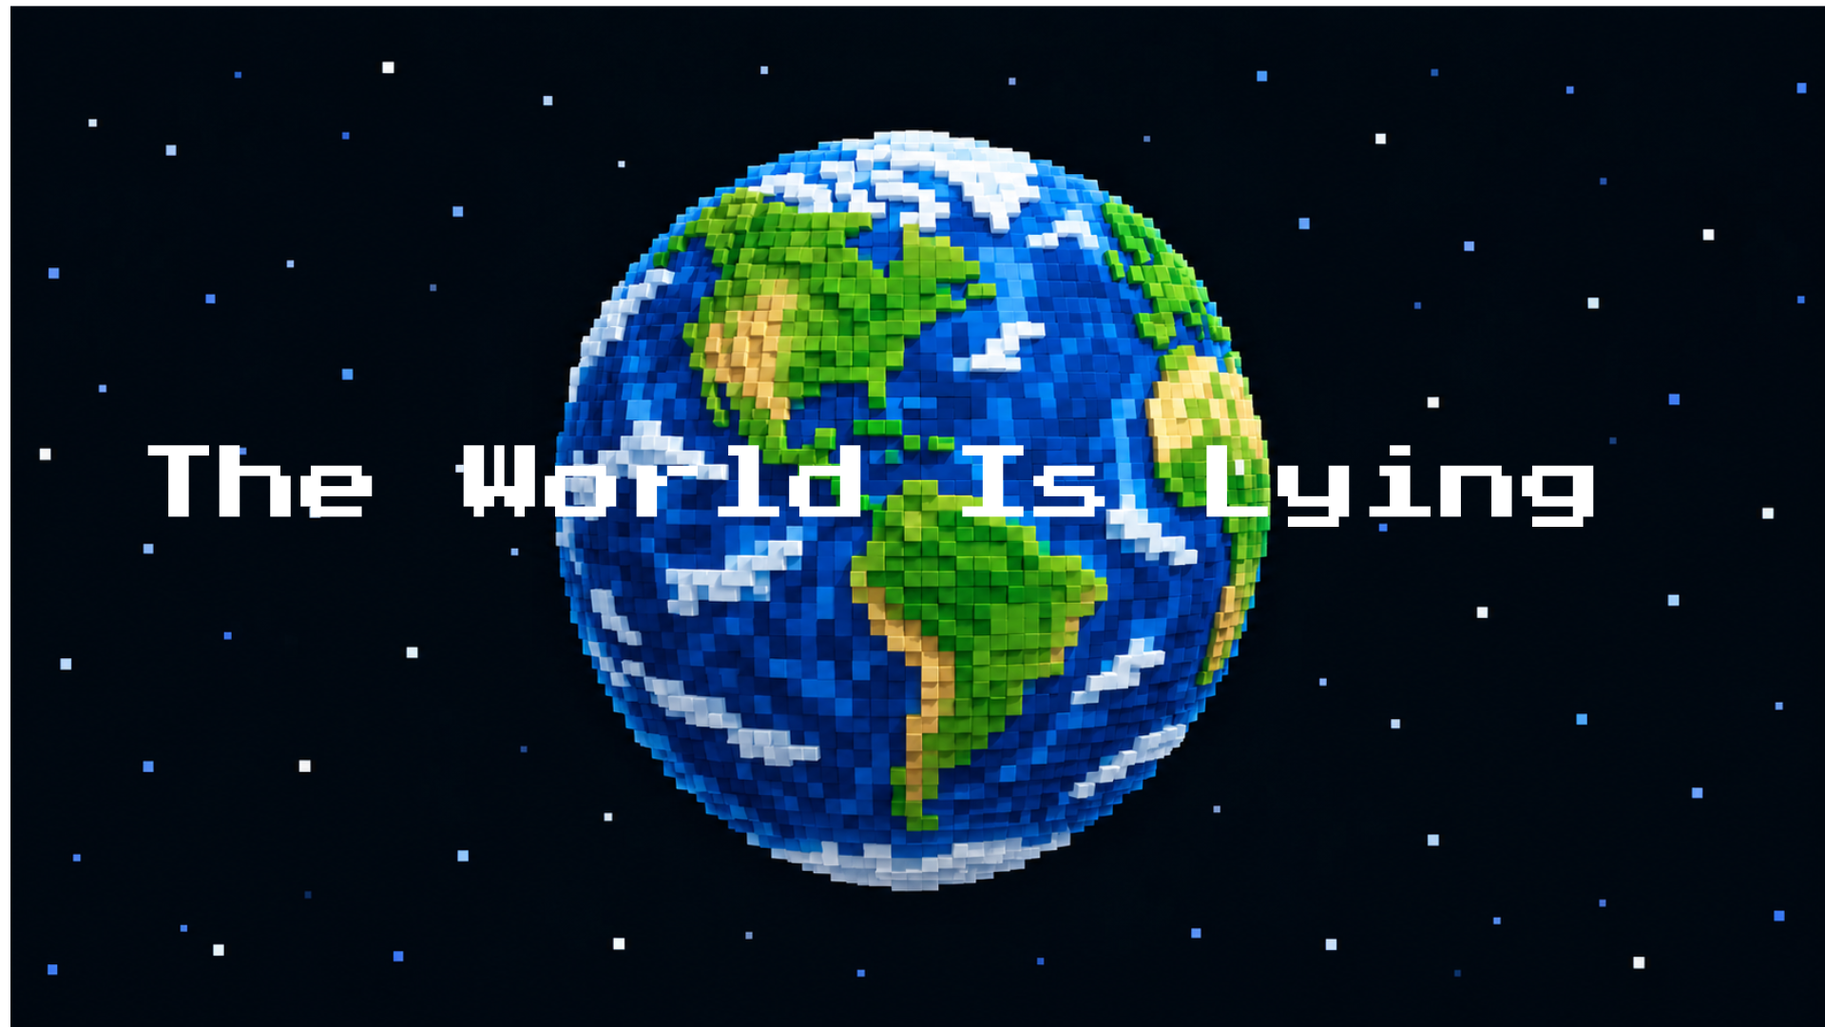
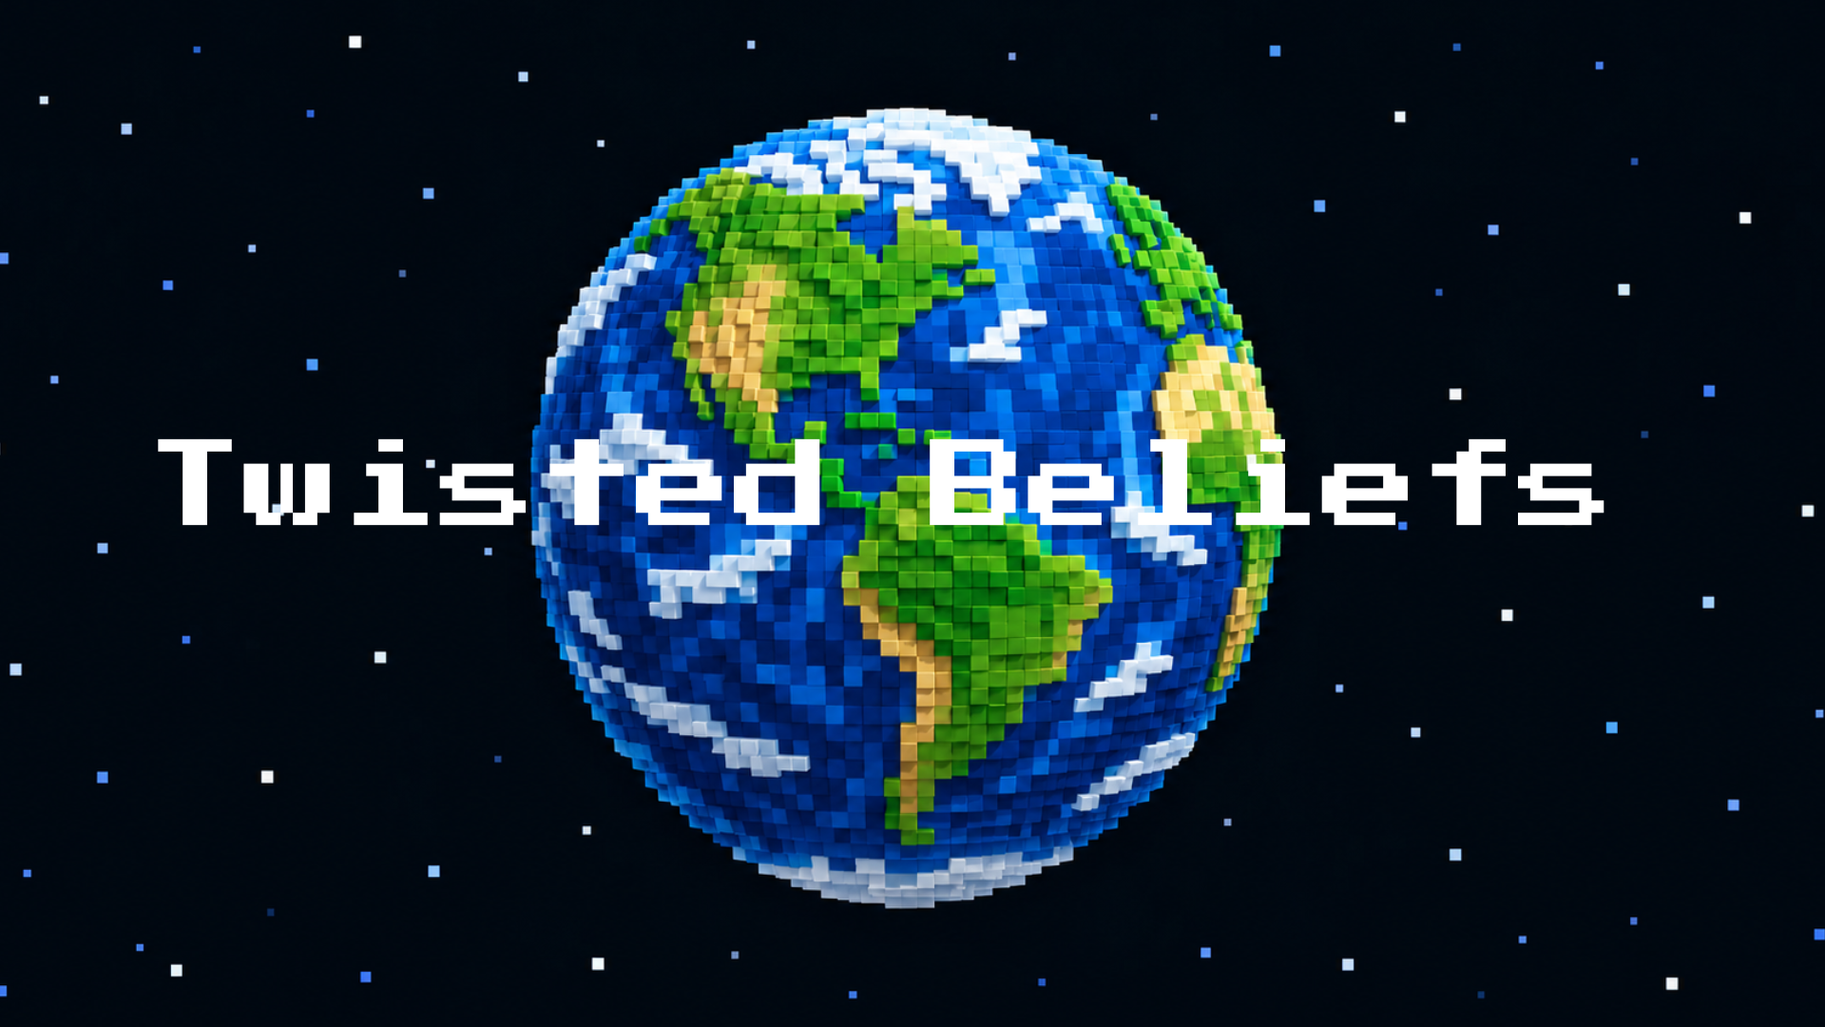
Update Twisted Beliefs (by Balthi, via the upload page)

diff --git a/games/the-world-is-lying/index.html b/games/the-world-is-lying/index.html
@@ -1,7 +1,7 @@
 <!DOCTYPE html>
 <html lang="en"><head><meta charset="utf-8">
 <meta name="viewport" content="width=device-width, initial-scale=1, viewport-fit=cover">
-<title>The World Is Lying</title>
+<title>Twisted Beliefs</title>
 <link href="https://fonts.googleapis.com/css2?family=Pixelify+Sans:wght@400;600&display=swap" rel="stylesheet">
 <style>
 :root{--bg:#1f2a2e;--ink:#f1e9d2;--acc:#e8a86b;--dim:#9fb0a8;box-sizing:border-box;padding-top:env(safe-area-inset-top,0px);padding-bottom:env(safe-area-inset-bottom,0px)}
@@ -33,7 +33,7 @@ button:hover,button:focus-visible{background:var(--acc);color:#1f2a2e;outline:no
 <button id="talk"></button>
 <div class="box" id="dlg"><b id="who"></b><div id="qrow"><label for="q">Question box</label><input id="q" placeholder="Ask anything, or tell them what they are..." maxlength="140" autocomplete="off"><button id="ask">Ask</button></div><p id="say"></p><div id="opts"></div></div>
 <div class="box" id="end"></div>
-<div id="intro"><h1>The World Is Lying</h1>
+<div id="intro"><h1>Twisted Beliefs</h1>
 <p>You wake in a city square. A woman is already waving at you, like she has done it a thousand times.</p>
 <div><button id="go">New game</button><button id="cont" style="display:none">Continue</button><button id="how">How to play</button></div></div>
 <div class="box" id="ov" style="display:none"></div><div id="hud"><button id="think">I believe...</button><span id="mem"></span><span id="mon">$0</span><button id="guide">Guide to house</button></div><div id="movie"></div><div class="box" id="thk" style="display:none;top:60px"><label for="tq" style="color:var(--acc)">Your belief</label><div style="display:flex;gap:6px;margin-top:6px"><input id="tq" placeholder="I believe I am a kid" maxlength="140" autocomplete="off" style="flex:1;min-width:0;font:inherit;font-size:16px;padding:6px;background:#141b1d;color:var(--ink);border:2px solid var(--dim)"><button id="tgo">Believe</button></div></div>
@@ -196,17 +196,74 @@ snake:[0,1,2,3,4,5,6].map(i=>bx(Math.sin(i)*.4,.15,1-i*.4,.3,.3,.45,i%2?'#3a8a4a
 frog:[bx(0,.4,0,.9,.6,1,'#4aa04a'),bx(.25,.8,.4,.25,.25,.25,'#4aa04a'),bx(-.25,.8,.4,.25,.25,.25,'#4aa04a'),bx(.25,.85,.5,.1,.1,.1,'#111'),bx(-.25,.85,.5,.1,.1,.1,'#111'),...L4('#3a8a3a',.5,.4,.2,.25)],
 spider:[bx(0,.5,0,.8,.6,1,'#222'),bx(0,.55,.7,.5,.5,.5,'#222'),...[-1,1].flatMap(a=>[-.5,-.15,.2,.55].map(z=>bx(a*.9,.4,z,1.2,.1,.1,'#222')))]};
 const AL={bunny:'rabbit',kitten:'cat',puppy:'dog',pony:'horse',stallion:'horse',donkey:'horse',bull:'cow',piglet:'pig',lamb:'sheep',goat:'sheep',rat:'mouse',gerbil:'hamster',squirrel:'hamster',ape:'monkey',gorilla:'monkey',chimp:'monkey',leopard:'tiger',cheetah:'tiger',moose:'deer',reindeer:'deer',coyote:'wolf',pigeon:'bird',sparrow:'bird',crow:'bird',raven:'bird',goose:'duck',hen:'chicken',rooster:'chicken',hawk:'eagle',falcon:'eagle',seagull:'bird',dolphin:'shark',goldfish:'fish',salmon:'fish',crate:'cube',box:'cube',block:'cube',mug:'cup',glass:'cup',stone:'rock',boulder:'rock',couch:'sofa',armchair:'chair',stool:'chair',bush:'tree',plant:'flower',rose:'flower',sedan:'car',truck:'car',bus:'car',taxi:'car',cottage:'house',hut:'house',cabin:'house',jar:'vase',pot:'vase',urn:'vase',orb:'ball',sphere:'ball',globe:'ball',desk:'table',candle:'lamp',lantern:'lamp',spirit:'ghost',phantom:'ghost',android:'robot',cyborg:'robot',snail:'frog',toad:'frog',lizard:'frog'};
-function PARTS(k){if(QD[k]){const P=quad(...QD[k]);if(k==='dragon')for(const a of[-1,1])P.push(bx(a*1.6,2.2,-.2,1.8,.1,1.4,'#c2503f'));return P}if(BD[k])return bird(...BD[k]);if(FD[k])return fish(...FD[k]);return OB[k]||null}
+QD.dinosaur=['#5a8a3a',2.6,1.3,1,[.1,.1],2,{neck:.5,stripe:'#3a6a2a'}];QD.unicorn=['#f1e9f8',2,1,1.3,[.2,.4],1.2,{neck:.6,tailc:'#e87aa8'}];
+Object.assign(OB,{
+boat:[bx(0,.4,0,1.6,.6,3.6,'#8a5a3a'),bx(0,.9,.4,1.3,.4,1.8,'#a0764a'),bx(0,2,0,.12,2.4,.12,'#5a3e2a'),bx(.55,2.1,0,1,1.8,.06,'#f1f1f1')],
+plane:[bx(0,1,0,.9,.9,4,'#d8d8dc'),bx(0,1,.2,5,.12,1.2,'#b8c0c8'),bx(0,1.8,-1.8,.12,1,.8,'#b8c0c8'),bx(0,1,-1.9,1.8,.1,.7,'#b8c0c8'),bx(0,1.1,2,.7,.7,.4,'#9fc8e0')],
+rocket:[bx(0,1.6,0,1,3.2,1,'#f1f1f1'),bx(0,3.5,0,.7,.8,.7,'#c2503f'),bx(0,1.8,.51,.4,.4,.05,'#9fc8e0'),bx(-.7,.5,0,.4,1,.2,'#c2503f'),bx(.7,.5,0,.4,1,.2,'#c2503f'),bx(0,.15,0,.6,.3,.6,'#f2a03a')],
+train:[bx(0,.8,0,1.4,1.2,4,'#2f5a9a'),bx(0,1.6,1.2,1.4,.8,1.4,'#2f5a9a'),bx(0,2.1,1.6,.5,.8,.5,'#333'),...[[-.8,-1.2],[.8,-1.2],[-.8,1],[.8,1]].map(([x,z])=>bx(x,.3,z,.2,.6,.6,'#111'))],
+bike:[bx(0,.35,.9,.15,.7,.7,'#111'),bx(0,.35,-.9,.15,.7,.7,'#111'),bx(0,.9,0,.12,.12,2,'#c2503f'),bx(0,1.1,.7,.8,.1,.1,'#333'),bx(0,1.1,-.6,.3,.1,.5,'#333')],
+tank:[bx(0,.5,0,1.8,.7,3,'#5a6a3a'),bx(0,1.1,0,1.2,.5,1.4,'#5a6a3a'),bx(0,1.15,1.5,.2,.2,1.8,'#333')],
+castle:[bx(0,1.2,0,3,2.4,2.4,'#b8b2a4'),...[[-1.8,-1],[1.8,-1],[-1.8,1],[1.8,1]].flatMap(([x,z])=>[bx(x,2,z,1,4,1,'#a8a294'),bx(x,4.3,z,1.3,.6,1.3,'#8a3b2e')]),bx(0,.8,1.25,.9,1.6,.06,'#4a3020')],
+skyscraper:[bx(0,3,0,2,6,2,'#8a9aa8'),...[0,1,2,3,4].map(i=>bx(0,.8+i*1.1,1.01,1.5,.5,.04,'#cfe8ff')),bx(0,6.3,0,.1,.8,.1,'#333')],
+pyramid:[bx(0,.4,0,4,.8,4,'#d8b86a'),bx(0,1.2,0,3,.8,3,'#d8b86a'),bx(0,2,0,2,.8,2,'#d8b86a'),bx(0,2.8,0,1,.8,1,'#d8b86a'),bx(0,3.4,0,.4,.4,.4,'#f2d27a')],
+tent:[bx(0,.5,0,2.4,1,2,'#c2503f'),bx(0,1.3,0,1.8,.6,1.6,'#c2503f'),bx(0,1.8,0,.8,.5,1.2,'#c2503f'),bx(0,.5,1.01,.7,1,.05,'#333')],
+windmill:[bx(0,1.6,0,1.6,3.2,1.6,'#e0c9a0'),bx(0,3.5,0,1.9,.6,1.9,'#8a3b2e'),bx(0,3,1,3.4,.2,.1,'#f1f1f1'),bx(0,3,1,.2,3.4,.1,'#f1f1f1')],
+cactus:[bx(0,1,0,.7,2,.7,'#3a8a4a'),bx(.7,1.3,0,.7,.25,.3,'#3a8a4a'),bx(.9,1.65,0,.25,.7,.3,'#3a8a4a'),bx(-.7,.9,0,.7,.25,.3,'#3a8a4a'),bx(-.9,1.25,0,.25,.7,.3,'#3a8a4a')],
+palm:[bx(0,1.5,0,.4,3,.4,'#8a6a3a'),bx(0,3.1,0,2.4,.2,.5,'#3a8a4a'),bx(0,3.1,0,.5,.2,2.4,'#3a8a4a'),bx(0,3,.2,.35,.35,.35,'#6a4a2a')],
+pine:[bx(0,.6,0,.4,1.2,.4,'#5b4636'),bx(0,1.5,0,2,.8,2,'#2f6a4a'),bx(0,2.2,0,1.5,.8,1.5,'#2f6a4a'),bx(0,2.9,0,1,.8,1,'#2f6a4a'),bx(0,3.5,0,.5,.6,.5,'#2f6a4a')],
+bed:[bx(0,.4,0,1.8,.5,3,'#8a5a3a'),bx(0,.8,0,1.7,.3,2.6,'#f1e9d2'),bx(0,1.2,-1.4,1.8,1,.2,'#8a5a3a'),bx(0,.98,-1,1.2,.2,.6,'#9fc8e0')],
+shelf:[bx(0,1.5,0,2.4,3,.6,'#7a5a3a'),...[0,1,2].map(i=>bx(0,.9+i*.9,.1,2.2,.12,.5,'#5a3e2a')),...[0,1,2].map(i=>bx(-.5+i*.5,1.1+i*.9,.1,.3,.5,.4,['#c2503f','#2f7a9a','#d9a441'][i]))],
+door:[bx(0,1.5,0,1.6,3,.2,'#6a4a2a'),bx(.55,1.5,.15,.15,.15,.1,'#f2d27a'),bx(0,1.5,.11,1.2,2.5,.02,'#5a3e2a')],
+clock:[bx(0,1.5,0,1.6,3.2,.8,'#7a5a3a'),bx(0,2.5,.41,1,1,.05,'#f1e9d2'),bx(0,2.6,.45,.08,.4,.04,'#111'),bx(.1,2.5,.45,.3,.08,.04,'#111'),bx(0,.7,.41,.8,1,.04,'#5a3e2a')],
+apple:[bx(0,.7,0,1.2,1.1,1.2,'#c2302f'),bx(0,1.4,0,.12,.4,.12,'#5b4636'),bx(.3,1.4,0,.5,.1,.3,'#3a8a3a')],
+banana:[bx(0,.3,0,.6,.5,1.4,'#f2d23a'),bx(0,.65,.9,.5,.5,.8,'#f2d23a'),bx(0,1,1.3,.2,.3,.2,'#5b4636')],
+cake:[bx(0,.5,0,2,1,2,'#f0d2b0'),bx(0,1.05,0,2.1,.2,2.1,'#f7a8c8'),bx(0,1.5,0,.12,.7,.12,'#f1f1f1'),bx(0,1.95,0,.2,.2,.2,'#f2a03a')],
+pizza:[bx(0,.1,0,2.4,.2,2.4,'#e0a050'),bx(0,.25,0,2.1,.1,2.1,'#c2503f'),bx(.4,.33,.3,.4,.1,.4,'#a82020'),bx(-.5,.33,-.3,.4,.1,.4,'#a82020'),bx(.3,.33,-.6,.4,.1,.4,'#f2d23a')],
+burger:[bx(0,.3,0,1.6,.6,1.6,'#d9a050'),bx(0,.7,0,1.7,.2,1.7,'#3a8a3a'),bx(0,.95,0,1.6,.3,1.6,'#6a3a20'),bx(0,1.35,0,1.6,.6,1.6,'#d9a050')],
+donut:[bx(0,.3,0,1.6,.6,1.6,'#e8a0c0'),bx(0,.35,0,.5,.7,.5,'#7ad8e8')],
+carrot:[bx(0,.8,0,.5,1.6,.5,'#e0762a'),bx(0,.4,0,.3,.8,.3,'#e0762a'),bx(0,1.8,0,.5,.4,.5,'#3a8a3a')],
+pumpkin:[bx(0,.7,0,1.6,1.3,1.6,'#e0762a'),bx(0,1.45,0,.2,.4,.2,'#3a6a3a'),bx(-.3,.9,.82,.3,.3,.05,'#111'),bx(.3,.9,.82,.3,.3,.05,'#111'),bx(0,.5,.82,.7,.2,.05,'#111')],
+egg:[bx(0,.7,0,1,1.4,1,'#f1e9d2'),bx(0,1.3,0,.8,.5,.8,'#f1e9d2')],
+sword:[bx(0,1.5,0,.25,2.6,.1,'#c8d0d8'),bx(0,.15,0,.9,.2,.2,'#d9a441'),bx(0,-.2,0,.2,.6,.2,'#5a3e2a')],
+axe:[bx(0,1,0,.2,2,.2,'#7a5a3a'),bx(.4,1.8,0,.8,.7,.15,'#aab4ba')],hammer:[bx(0,1,0,.2,2,.2,'#7a5a3a'),bx(0,2.1,0,1.2,.6,.5,'#8a8a92')],
+key:[bx(0,1.5,0,.2,2,.12,'#e0b030'),bx(0,2.7,0,.8,.6,.12,'#e0b030'),bx(.2,.7,0,.4,.2,.12,'#e0b030')],
+book:[bx(0,.2,0,1.4,.4,1.8,'#2f5a9a'),bx(0,.2,.05,1.3,.3,1.7,'#f1e9d2'),bx(-.65,.2,0,.12,.42,1.8,'#1f3a6a')],
+tv:[bx(0,1.1,0,2.2,1.5,.3,'#222'),bx(0,1.1,.16,1.9,1.2,.05,'#3a5a8a'),bx(0,.3,0,1,.2,.5,'#222')],
+computer:[bx(0,.9,0,1.8,1.2,.2,'#222'),bx(0,.9,.11,1.6,1,.05,'#3a8ac4'),bx(0,.5,.6,1.8,.1,1,'#aab4ba')],
+guitar:[bx(0,.9,0,1,1.2,.25,'#c9a27a'),bx(0,.9,.13,.3,.3,.05,'#222'),bx(0,2.1,0,.18,1.8,.15,'#5a3e2a'),bx(0,3.1,0,.35,.4,.12,'#5a3e2a')],
+umbrella:[bx(0,2,0,2.2,.4,2.2,'#c2503f'),bx(0,2.3,0,1.3,.3,1.3,'#c2503f'),bx(0,1,0,.1,2,.1,'#333')],
+balloon:[bx(0,2.6,0,1.3,1.5,1.3,'#e0455a'),bx(0,1.7,0,.06,1.7,.06,'#f1f1f1')],
+crab:[bx(0,.4,0,1.2,.5,.9,'#d9442f'),bx(-.8,.7,.5,.4,.4,.3,'#d9442f'),bx(.8,.7,.5,.4,.4,.3,'#d9442f'),bx(-.3,.8,.4,.12,.3,.12,'#111'),bx(.3,.8,.4,.12,.3,.12,'#111'),...[-1,1].flatMap(a=>[-.3,0,.3].map(z=>bx(a*.75,.15,z,.5,.1,.1,'#b8301f')))],
+bee:[bx(0,.8,0,.6,.5,1,'#f2c23a'),bx(0,.8,.1,.62,.52,.2,'#222'),bx(0,.8,-.3,.62,.52,.2,'#222'),bx(0,.85,.6,.4,.4,.4,'#f2c23a'),bx(-.5,1.2,0,.6,.05,.4,'#cfe8ff'),bx(.5,1.2,0,.6,.05,.4,'#cfe8ff')],
+butterfly:[bx(0,1,0,.15,.15,.7,'#222'),bx(-.7,1.1,0,1.2,.05,.9,'#e06cb0'),bx(.7,1.1,0,1.2,.05,.9,'#6c8ae0')],
+bat:[bx(0,1,0,.5,.5,.6,'#2a2a30'),bx(-.8,1.05,0,1.1,.05,.6,'#2a2a30'),bx(.8,1.05,0,1.1,.05,.6,'#2a2a30'),bx(-.15,1.35,0,.12,.25,.1,'#2a2a30'),bx(.15,1.35,0,.12,.25,.1,'#2a2a30')],
+turtle:[bx(0,.5,0,1.4,.6,1.8,'#5a8a3a'),bx(0,.4,1.1,.5,.4,.5,'#7aaa4a'),...L4('#7aaa4a',.6,.7,.25,.3)],
+octopus:[bx(0,1.6,0,1.4,1.4,1.4,'#c24a8a'),bx(-.3,1.7,.71,.2,.2,.05,'#fff'),bx(.3,1.7,.71,.2,.2,.05,'#fff'),...[0,1,2,3,4,5,6,7].map(i=>bx(Math.cos(i*.785)*.7,.5,Math.sin(i*.785)*.7,.2,1,.2,'#c24a8a'))],
+jellyfish:[bx(0,1.8,0,1.6,.9,1.6,'#e0a0f0'),...[-1,0,1].flatMap(a=>[-1,1].map(b=>bx(a*.5,.8,b*.5,.1,1.4,.1,'#d080e0')))],
+snowman:[bx(0,.6,0,1.4,1.2,1.4,'#f4f6fa'),bx(0,1.6,0,1,.9,1,'#f4f6fa'),bx(0,2.4,0,.7,.7,.7,'#f4f6fa'),bx(0,2.4,.4,.15,.15,.4,'#e0762a'),bx(-.15,2.55,.36,.08,.08,.05,'#111'),bx(.15,2.55,.36,.08,.08,.05,'#111'),bx(0,2.85,0,.8,.3,.8,'#222')],
+sun:[bx(0,2,0,2,2,2,'#f2c23a'),bx(0,2,0,2.6,.6,.6,'#f2a03a'),bx(0,2,0,.6,2.6,.6,'#f2a03a')],moon:[bx(0,2,0,2,2,2,'#e8e6d0'),bx(.4,2.3,.9,.5,.5,.2,'#c8c6b0')],
+star:[bx(0,2,0,1,1,.4,'#f2d23a'),bx(0,2,0,2.4,.5,.4,'#f2d23a'),bx(0,2,0,.5,2.4,.4,'#f2d23a')],cloud:[bx(0,2.5,0,2.4,.8,1.4,'#f4f6fa'),bx(-.6,3,0,1.2,.8,1.1,'#f4f6fa'),bx(.6,3,0,1.4,.9,1.1,'#f4f6fa')],
+fire:[bx(0,.5,0,1,1,1,'#e0501a'),bx(0,1.2,0,.7,1,.7,'#f2a03a'),bx(0,1.8,0,.4,.8,.4,'#f2d23a')],
+mountain:[bx(0,.8,0,5,1.6,4,'#7a7a82'),bx(0,2,0,3.4,1.2,2.8,'#8a8a92'),bx(0,3,0,2,1,1.6,'#f4f6fa'),bx(0,3.8,0,.8,.8,.8,'#f4f6fa')],
+volcano:[bx(0,.8,0,4,1.6,4,'#6a4a3a'),bx(0,2,0,2.6,1.2,2.6,'#6a4a3a'),bx(0,2.7,0,1.4,.3,1.4,'#e0501a'),bx(0,3.3,0,.6,.9,.6,'#f2a03a')],
+crystal:[bx(0,.6,0,1.6,1.2,1.6,'#8a6ae0'),bx(0,1.5,0,1.1,.9,1.1,'#a58af0'),bx(0,2.2,0,.6,.7,.6,'#c8b8ff'),bx(-.9,.5,.3,.6,1,.6,'#7a5ad0')]});
+Object.assign(AL,{ship:'boat',yacht:'boat',canoe:'boat',sailboat:'boat',airplane:'plane',jet:'plane',helicopter:'plane',aircraft:'plane',spaceship:'rocket',shuttle:'rocket',motorcycle:'bike',bicycle:'bike',scooter:'bike',palace:'castle',fortress:'castle',building:'skyscraper',hamburger:'burger',cupcake:'cake',pie:'pizza',doughnut:'donut',watermelon:'pumpkin',pear:'apple',laptop:'computer',monitor:'tv',television:'tv',phone:'tv',trex:'dinosaur',dino:'dinosaur',sunflower:'flower',oak:'tree',christmas:'pine',spruce:'pine',fir:'pine',ant:'spider',mosquito:'bee',wasp:'bee',moth:'butterfly',lobster:'crab',shrimp:'crab',squid:'octopus',flame:'fire',campfire:'fire',hill:'mountain',gem:'crystal',diamond:'crystal',jewel:'crystal',blade:'sword',knife:'sword',dagger:'sword',mallet:'hammer',ufo:'plane'});
+function generic(w,h){const C=(a,l)=>'#'+new T.Color().setHSL(a%360/360,.5,l).getHexString(),c=C(h,.5),d=C(h+60,.35),e=C(h+180,.65),k=h%3;
+ if(k===0)return quad(c,1+(h%5)*.2,.8,.5,[.4,.5],.8,{ear:d,tailc:d});
+ return[bx(0,.4,0,1.6,.8,1.6,d),bx(0,1.2,0,1.2,.8,1.2,c),bx(0,1.9,0,.8,.6,.8,e),bx(0,2.4,0,.4,.4,.4,'#f1f1f1')]}
+function PARTS(k){if(QD[k]){const P=quad(...QD[k]);if(k==='dragon')for(const a of[-1,1])P.push(bx(a*1.6,2.2,-.2,1.8,.1,1.4,'#c2503f'));if(k==='unicorn')P.push(bx(0,3.45,1.3,.15,.8,.15,'#f2d27a'));return P}if(BD[k])return bird(...BD[k]);if(FD[k])return fish(...FD[k]);return OB[k]||null}
 function mk(w){if(/monster|beast|ogre|troll|zombie|vampire|demon|devil|creature|abomination|alien/.test(w))return human(w);
- for(let x of w.split(/[\s\-]+/)){x=x.replace(/[^a-z]/g,'');for(const k of [x,AL[x],x.replace(/ies$/,'y'),x.replace(/e?s$/,''),AL[x.replace(/e?s$/,'')]]){if(!k)continue;const P=PARTS(k);if(P)return{what:w,parts:P,fly:/dragon|bird|duck|fish|shark|whale|ghost|owl|eagle|parrot|swan/.test(k),glow:k==='ghost',live:!!(QD[k]||BD[k]||FD[k])}}}
+ for(let x of w.split(/[\s\-]+/)){x=x.replace(/[^a-z]/g,'');for(const k of [x,AL[x],x.replace(/ies$/,'y'),x.replace(/e?s$/,''),AL[x.replace(/e?s$/,'')]]){if(!k)continue;const P=PARTS(k);if(P)return{what:w,parts:P,fly:/dragon|bird|duck|fish|shark|whale|ghost|owl|eagle|parrot|swan|bee|butterfly|bat|plane|rocket|balloon|cloud|jellyfish/.test(k),glow:/^(ghost|sun|star|fire|moon|crystal)$/.test(k),live:!!(QD[k]||BD[k]||FD[k])||/^(crab|bee|butterfly|bat|turtle|octopus|jellyfish|snake|frog|spider|robot|snowman)$/.test(k)}}}
  if(/king|queen|prince|princess|wizard|witch|doctor|nurse|police|cop|pirate|soldier|knight|teacher|chef|farmer|clown|human|man|woman|girl|boy|person|baker|thief|ninja|angel|fairy|santa|cowboy|hero|villain|mage|stranger|friend|god|librarian|sailor|guard|kid|child|baby|toddler|teen|elder|old man|old woman|grandma|grandpa|mom|dad|mother|father|brother|sister|giant|tiny|dwarf|citizen|villager|mayor|butcher|artist|singer|dancer|musician|student|scientist|spy|bandit|captain|sheriff|judge|monk|priest/.test(w))return{...human(w),person:true};
- let h=0;for(const c of w)h=(h*31+c.charCodeAt(0))%9973;const C=(a,l)=>'#'+new T.Color().setHSL(a%360/360,.55,l).getHexString();
- return{what:w,label:true,parts:[bx(0,1,0,1.2,2,1.2,C(h,.5)),bx(0,2.3,0,1,.5,1,C(h+140,.6)),bx(-.2,1.6,.62,.2,.2,.05,'#111'),bx(.2,1.6,.62,.2,.2,.05,'#111')]}}
+ const wl=w.split(/[\s\-]+/).pop();if(/(er|or|ist|ian|man|woman|ess|eer)$/.test(wl)&&wl.length>3)return{...human(w),person:true};
+ let h=0;for(const c of w)h=(h*31+c.charCodeAt(0))%9973;
+ return{what:w,unk:true,parts:generic(w,h),glow:h%3!==0,live:h%3===0}}
 const MC={};
-function okParts(a){if(!Array.isArray(a)||a.length<2)return null;const P=a.slice(0,44).map(p=>{if(!Array.isArray(p)||p.length<7)return null;const v=p.slice(0,6).map(Number);if(v.some(x=>!isFinite(x)))return null;return[...v.map((x,i)=>Math.max(i<3?-8:.04,Math.min(i<3?8:9,x))),hx(p[6])?p[6]:'#999999']}).filter(Boolean);return P.length>1?P:null}
-async function aiModel(w){if(MC[w])return MC[w];try{if(smp===undefined)smp=(window.claude&&await claude.use('sample'))||null;if(!smp)return null;
- const r=await smp('Design a simple blocky low-poly model of "'+w+'" for a pixel-style 3D game, built only from boxes. Reply with ONLY JSON: {"parts":[[x,y,z,w,h,d,"#rrggbb"],...],"fly":false,"glow":false,"live":false}. Set live to true if it is a creature that should wander around. Rules: 14 to 40 parts. Each part is a box centered at x,y,z with sizes w (left-right), h (up), d (front-back). y=0 is the ground. The front faces +z. Units: a human is 2.9 tall, so scale the thing realistically against a human (a mouse about 0.3 long, a vase about 1.5 tall, an elephant about 4 long). Make it clearly recognizable (eyes, ears, legs, handles, wings and so on as relevant). Use 2 to 6 colors.',{cache:false,modelTier:'quick'});
- const j=JSON.parse(r.text.match(/\{[\s\S]*\}/)[0]),P=okParts(j.parts);if(P)return MC[w]={parts:P,fly:!!j.fly,glow:!!j.glow,live:!!j.live}}catch(e){}return null}
+function okParts(a){if(!Array.isArray(a)||a.length<2)return null;const P=a.slice(0,60).map(p=>{if(!Array.isArray(p)||p.length<7)return null;const v=p.slice(0,6).map(Number);if(v.some(x=>!isFinite(x)))return null;return[...v.map((x,i)=>Math.max(i<3?-8:.04,Math.min(i<3?8:9,x))),hx(p[6])?p[6]:'#999999']}).filter(Boolean);return P.length>1?P:null}
+async function aiModel(w){if(MC[w])return MC[w];try{if(smp===undefined)smp=(window.claude&&await claude.use('sample'))||null}catch(e){smp=null}if(!smp)return null;
+ const pr='Design a simple blocky low-poly model of "'+w+'" for a pixel-style 3D game, built only from boxes. Reply with ONLY JSON: {"parts":[[x,y,z,w,h,d,"#rrggbb"],...],"fly":false,"glow":false,"live":false}. Set live to true if it is a creature that should wander around. Rules: 14 to 40 parts. Each part is a box centered at x,y,z with sizes w (left-right), h (up), d (front-back). y=0 is the ground. The front faces +z. Units: a human is 2.9 tall, so scale the thing realistically against a human (a mouse about 0.3 long, a vase about 1.5 tall, an elephant about 4 long). Make it clearly recognizable (eyes, ears, legs, handles, wings and so on as relevant). Use 2 to 6 colors.';
+ for(let tr=0;tr<2;tr++){try{const r=await smp(pr,{cache:false,modelTier:'quick'});let t=r.text;t=t.slice(t.indexOf('{'),t.lastIndexOf('}')+1).replace(/,\s*([}\]])/g,'$1');const j=JSON.parse(t),P=okParts(j.parts);if(P)return MC[w]={parts:P,fly:!!j.fly,glow:!!j.glow,live:!!j.live}}catch(e){}}return null}
 const THINGS=[],ST=[],COINS=[],BEL=/\b(believe|think|know|imagine|wish|there (is|are|was|were)|there's|i can|i am|i'm|i have|everyone|everybody|everything|the (sky|ground|street|streets|road|town|world)|it is|it's|becomes?|turn|make|(is|are|was|were) an?)\b/i;
 const SECRETS=["you saw the player arrive in this town years ago, and again yesterday","you are afraid of the lighthouse","you were paid to tell the player they belong here","you remember the town before it changed","you counted the player's footsteps last night"],QUIRKS=["you hum when nervous","you never say the player's name","you repeat the last word of your sentences","you keep glancing at the sky","you whisper the end of every sentence"];
 const ctx=n=>"Setting: "+(inside?"inside "+inside.t:"outdoors")+", time "+(S.sky||'day')+(S.wx?", "+S.wx:"")+". Your secret: "+(n.sec||'none')+". Your quirk: "+(n.qk||'none')+". Recent talk with the player: "+JSON.stringify((n.h||[]).slice(-4))+". The player's recent beliefs: "+JSON.stringify((S.lg||[]).slice(-5))+".";
@@ -218,7 +275,7 @@ function addThing(b,x,z,w,norec,fl){const g=new T.Group();g.position.set(x,0,z);
  if(!b.live&&!fl){th.col={x,z,r:Math.min(5,r*.72),on:()=>true};colliders.push(th.col)}
  THINGS.push(th);if(THINGS.length>40){const o=THINGS.shift();scene.remove(o.g);if(o.col)colliders.splice(colliders.indexOf(o.col),1)}
  if(!norec){S.sp=S.sp||[];S.sp.push({w,x,z,b:th.b,f:fl?1:0});if(S.sp.length>40)S.sp.shift()}return th}
-async function spawnThing(w,cnt,where,follow){let b=mk(w);if(b.label){const m=await aiModel(w);if(m)b={...b,parts:m.parts,fly:m.fly,glow:m.glow,live:m.live,label:false}}
+async function spawnThing(w,cnt,where,follow){let b=mk(w);if(b.unk){const m=await aiModel(w);if(m)b={...b,parts:m.parts,fly:m.fly,glow:m.glow,live:m.live,label:false}}
  for(let i=0;i<cnt;i++){const a=player.rotation.y+(where==='around'||cnt>1?(Math.random()-.5)*(where==='around'?6.2:2.6):0),r=where==='around'?7+Math.random()*8:6+Math.random()*(cnt>1?8:2);addThing(b,player.position.x+Math.sin(a)*r,player.position.z+Math.cos(a)*r,w,false,follow)}save()}
 const cl=w=>String(w||'').toLowerCase().replace(/[^a-z \-]/g,'').trim().slice(0,28);
 const SELF={g:player,n:'You',self:true,l:[]};
@@ -240,12 +297,12 @@ function applyFx(fx){const o=[];if(!fx||typeof fx!=='object')return o;
  if(hx(fx.houses)){S.hc=fx.houses;o.push('Every house changes color.')}
  const pw=fx.player;if(pw&&typeof pw==='object'){S.pw=S.pw||{};if(pw.fly!=null)S.pw.fly=!!pw.fly;if(+pw.speed)S.pw.speed=Math.max(.5,Math.min(4,+pw.speed));if(+pw.size)S.pw.size=Math.max(.3,Math.min(4,+pw.size));if(pw.inv!=null)S.pw.inv=!!pw.inv;o.push('You feel different.')}
  if(+fx.money){money=Math.max(0,Math.min(99999,money+Math.round(+fx.money)));hud();o.push('Money fills your pockets.')}
- const sf=cl(fx.self);if(sf){const b=mk(sf);tf(SELF,b);if(b.label)aiModel(sf).then(m=>m&&tf(SELF,{...b,parts:m.parts,fly:m.fly,glow:m.glow,label:false,quiet:true}));o.push('You become '+sf+'.')}
+ const sf=cl(fx.self);if(sf){const b=mk(sf);tf(SELF,b);if(b.unk)aiModel(sf).then(m=>m&&tf(SELF,{...b,parts:m.parts,fly:m.fly,glow:m.glow,label:false,quiet:true}));o.push('You become '+sf+'.')}
  for(const sp of (Array.isArray(fx.spawn)?fx.spawn:[]).slice(0,4)){const w=cl(sp.what);if(w){spawnThing(w,Math.max(1,Math.min(10,+sp.count||1)),sp.where);o.push('A '+w+' appears.')}}
  for(const pt of (Array.isArray(fx.pets)?fx.pets:[]).slice(0,3)){const w=cl(pt);if(w){spawnThing(w,1,'here',true);o.push('A '+w+' joins you.')}}
- const ev=cl(fx.everyone);if(ev){const b=mk(ev),ks=Object.keys(NPC);ks.forEach(k=>becomeNPC(NPC[k],{...b,quiet:true}));if(b.label)aiModel(ev).then(m=>m&&ks.forEach(k=>NPC[k]&&becomeNPC(NPC[k],{...b,parts:m.parts,fly:m.fly,glow:m.glow,label:false,quiet:true})));o.push('Everyone becomes '+ev+'.')}
+ const ev=cl(fx.everyone);if(ev){const b=mk(ev),ks=Object.keys(NPC);ks.forEach(k=>becomeNPC(NPC[k],{...b,quiet:true}));if(b.unk)aiModel(ev).then(m=>m&&ks.forEach(k=>NPC[k]&&becomeNPC(NPC[k],{...b,parts:m.parts,fly:m.fly,glow:m.glow,label:false,quiet:true})));o.push('Everyone becomes '+ev+'.')}
  if(typeof fx.behavior==='string'&&['follow','flee','dance','freeze',''].includes(fx.behavior)){S.beh=fx.behavior;o.push({follow:'Everyone turns to follow you.',flee:'Everyone backs away from you.',dance:'Everyone starts to dance.',freeze:'Everyone freezes in place.','':'Everyone goes back to normal.'}[fx.behavior])}
- for(const pp of (Array.isArray(fx.people)?fx.people:[]).slice(0,6)){const n=findNPC(String(pp.who||'').toLowerCase()),w=cl(pp.become);if(n&&w){const b=mk(w);tf(n,b);if(b.label)aiModel(w).then(m=>m&&tf(n,{...b,parts:m.parts,fly:m.fly,glow:m.glow,label:false,quiet:true}));o.push(n.n+' becomes '+w+'.')}}
+ for(const pp of (Array.isArray(fx.people)?fx.people:[]).slice(0,6)){const n=findNPC(String(pp.who||'').toLowerCase()),w=cl(pp.become);if(n&&w){const b=mk(w);tf(n,b);if(b.unk)aiModel(w).then(m=>m&&tf(n,{...b,parts:m.parts,fly:m.fly,glow:m.glow,label:false,quiet:true}));o.push(n.n+' becomes '+w+'.')}}
  if(fx.land&&typeof fx.land==='object')for(const k in fx.land){const on=!!fx.land[k];S.rum=S.rum||{};({library:()=>S.libN=on?0:2,lighthouse:()=>S.light=on,fountain:()=>S.rum.dry=on?0:1,chapel:()=>S.rum.chapel=on?1:0,tower:()=>S.noTw=!on,bakery:()=>S.noBk=!on}[k]||(()=>0))();o.push('The '+k+(on?' is there.':' is gone.'))}
  for(const w of (Array.isArray(fx.remove)?fx.remove:[]).slice(0,4)){const q=cl(w);if(!q)continue;const hit=THINGS.filter(th=>th.w.includes(q));hit.forEach(rmThing);S.sp=(S.sp||[]).filter(r=>!r.w.includes(q));if(hit.length)o.push('The '+q+' is gone.')}
  world();save();if(o.length)toast(o.slice(0,3).join(' '));return o}
